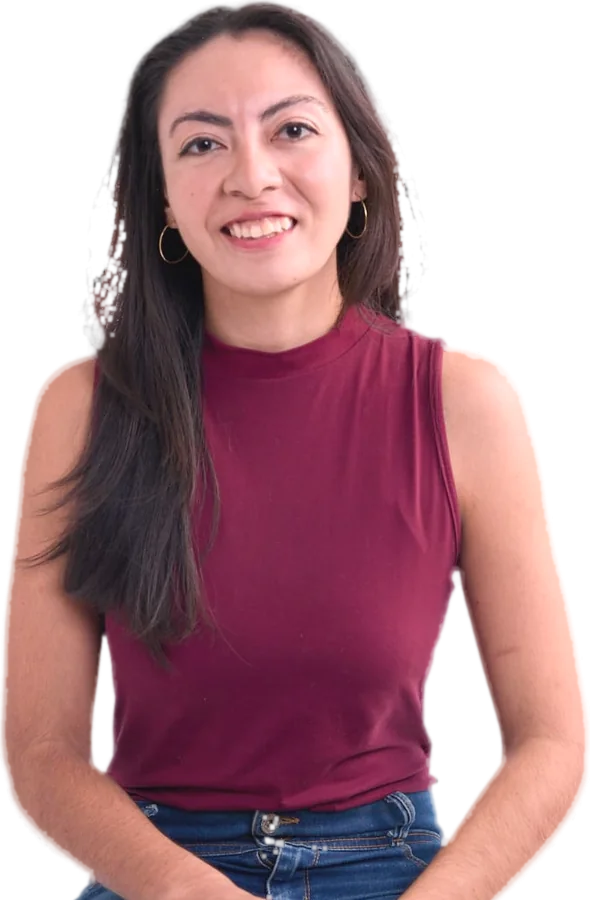
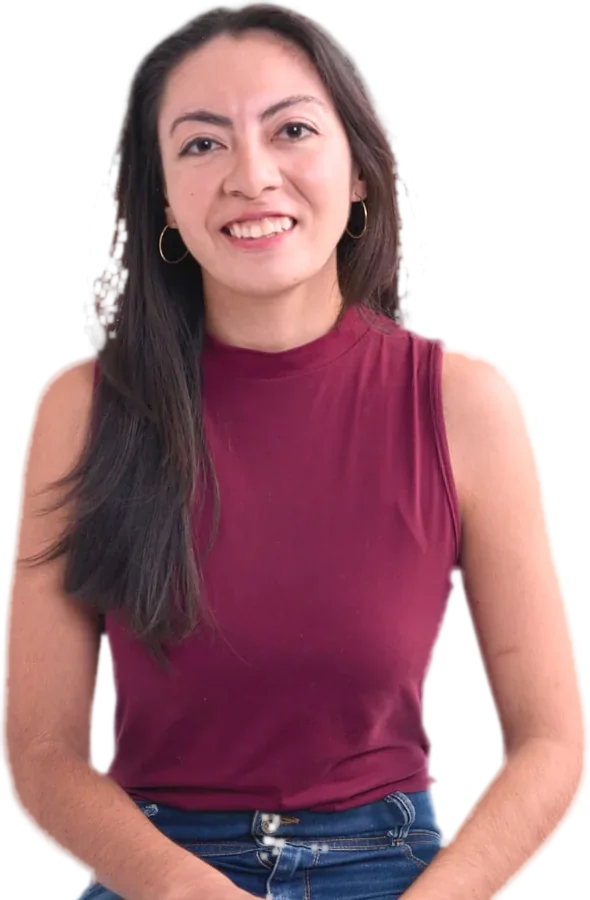
Use Paola's light-outfit photo and a black house in the hero (#21)
* Add static sales landing page for Viver de Coliving

Claude-Session: https://claude.ai/code/session_01SfAepcbRf6sY97WC7D79BX

* Serve the landing page as static assets on Cloudflare Workers

Claude-Session: https://claude.ai/code/session_01SfAepcbRf6sY97WC7D79BX

* Use Paola's coliving photo on the landing page

Claude-Session: https://claude.ai/code/session_01SfAepcbRf6sY97WC7D79BX

* Raise contrast and type sizes, redesign hero art and team section on the landing page

Claude-Session: https://claude.ai/code/session_01SfAepcbRf6sY97WC7D79BX

* Fit hero photos inside a larger house shape

Claude-Session: https://claude.ai/code/session_01SfAepcbRf6sY97WC7D79BX

* Turn the collaborative economy section into an ownership-to-access framework

Claude-Session: https://claude.ai/code/session_01SfAepcbRf6sY97WC7D79BX

* Remove audience list from module 2 description

Claude-Session: https://claude.ai/code/session_01SfAepcbRf6sY97WC7D79BX

* Show the collaborative economy as a circular diagram

Claude-Session: https://claude.ai/code/session_01SfAepcbRf6sY97WC7D79BX

* Use background-free photos inside the hero house and set the WhatsApp number

Claude-Session: https://claude.ai/code/session_01SfAepcbRf6sY97WC7D79BX

* Wire Asaas checkout links, add the individual consultancy offer and fix module count

Claude-Session: https://claude.ai/code/session_01SfAepcbRf6sY97WC7D79BX

* Retouch Ivonne's hero photo lighting and skin tone
[…]

diff --git a/landing/index.html b/landing/index.html
@@ -86,13 +86,13 @@ p+p{margin-top:16px}
 .hero .btn{width:100%}
 @media(min-width:560px){.hero .btn{width:auto}}
 .hero-visual{position:relative;width:100%;max-width:640px;margin:0 auto;aspect-ratio:1/1.02;overflow:hidden;border-radius:0 0 20px 20px}
-.casa{position:absolute;left:0;right:0;top:0;bottom:0;background:var(--amarelo);clip-path:polygon(50% 0,100% 28%,100% 100%,0 100%,0 28%)}
+.casa{position:absolute;left:0;right:0;top:0;bottom:0;background:var(--grafite);clip-path:polygon(50% 0,100% 28%,100% 100%,0 100%,0 28%)}
 .gente{position:absolute;bottom:0;margin:0;height:86%}
-.gente img{height:100%;width:auto;display:block;filter:drop-shadow(0 4px 6px rgba(28,28,28,.14))}
-.gente.g1{left:-3%;z-index:2}
+.gente img{height:100%;width:auto;display:block}
+.gente.g1{left:-7%;z-index:2}
 .gente.g2{right:-3%;z-index:1;height:76%}
-.gente figcaption{position:absolute;bottom:14px;background:var(--grafite);color:#fff;border-radius:8px;padding:5px 12px;font-size:13px;line-height:17px;z-index:3;white-space:nowrap}
-.gente.g1 figcaption{left:14%}
+.gente figcaption{position:absolute;bottom:14px;background:var(--amarelo);color:var(--grafite);border-radius:8px;padding:5px 12px;font-size:13px;line-height:17px;z-index:3;white-space:nowrap}
+.gente.g1 figcaption{left:18%}
 .gente.g2 figcaption{right:14%}
 .gente figcaption b{display:block;font-size:16px;line-height:21px}
 .duo{display:grid;grid-template-columns:1fr 1fr;gap:14px}
@@ -326,7 +326,7 @@ footer p+p{margin-top:8px}
     <div class="hero-visual" aria-label="Paola e Ivonne, criadoras do Viver de Coliving">
       <div class="casa" aria-hidden="true"></div>
       <figure class="gente g1">
-        <img src="/assets/paola-recorte.webp" alt="Paola, criadora do Viver de Coliving" width="531" height="900" fetchpriority="high">
+        <img src="/assets/paola-recorte.webp" alt="Paola, criadora do Viver de Coliving" width="576" height="900" fetchpriority="high">
         <figcaption><b>Paola</b>Gestão</figcaption>
       </figure>
       <figure class="gente g2">
